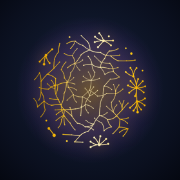
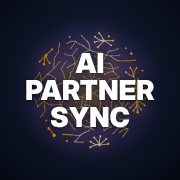
アプリアイコンに「AI PARTNER SYNC」の白い太字を追加
Claude-Session: https://claude.ai/code/session_01MP5wzJfrA7YUSmRjrckKPk

diff --git a/index.html b/index.html
@@ -9,9 +9,9 @@
 <meta name="mobile-web-app-capable" content="yes">
 <meta name="apple-mobile-web-app-status-bar-style" content="black">
 <meta name="apple-mobile-web-app-title" content="AI Partner Sync">
-<link rel="apple-touch-icon" href="apple-touch-icon.png">
-<link rel="icon" type="image/png" sizes="192x192" href="icon-192.png">
-<link rel="manifest" href="manifest.json">
+<link rel="apple-touch-icon" href="apple-touch-icon.png?v=2">
+<link rel="icon" type="image/png" sizes="192x192" href="icon-192.png?v=2">
+<link rel="manifest" href="manifest.json?v=2">
 <title>AI Partner Sync — Master</title>
 <link href="https://fonts.googleapis.com/icon?family=Material+Icons" rel="stylesheet">
 <script src="settings.js"></script>
